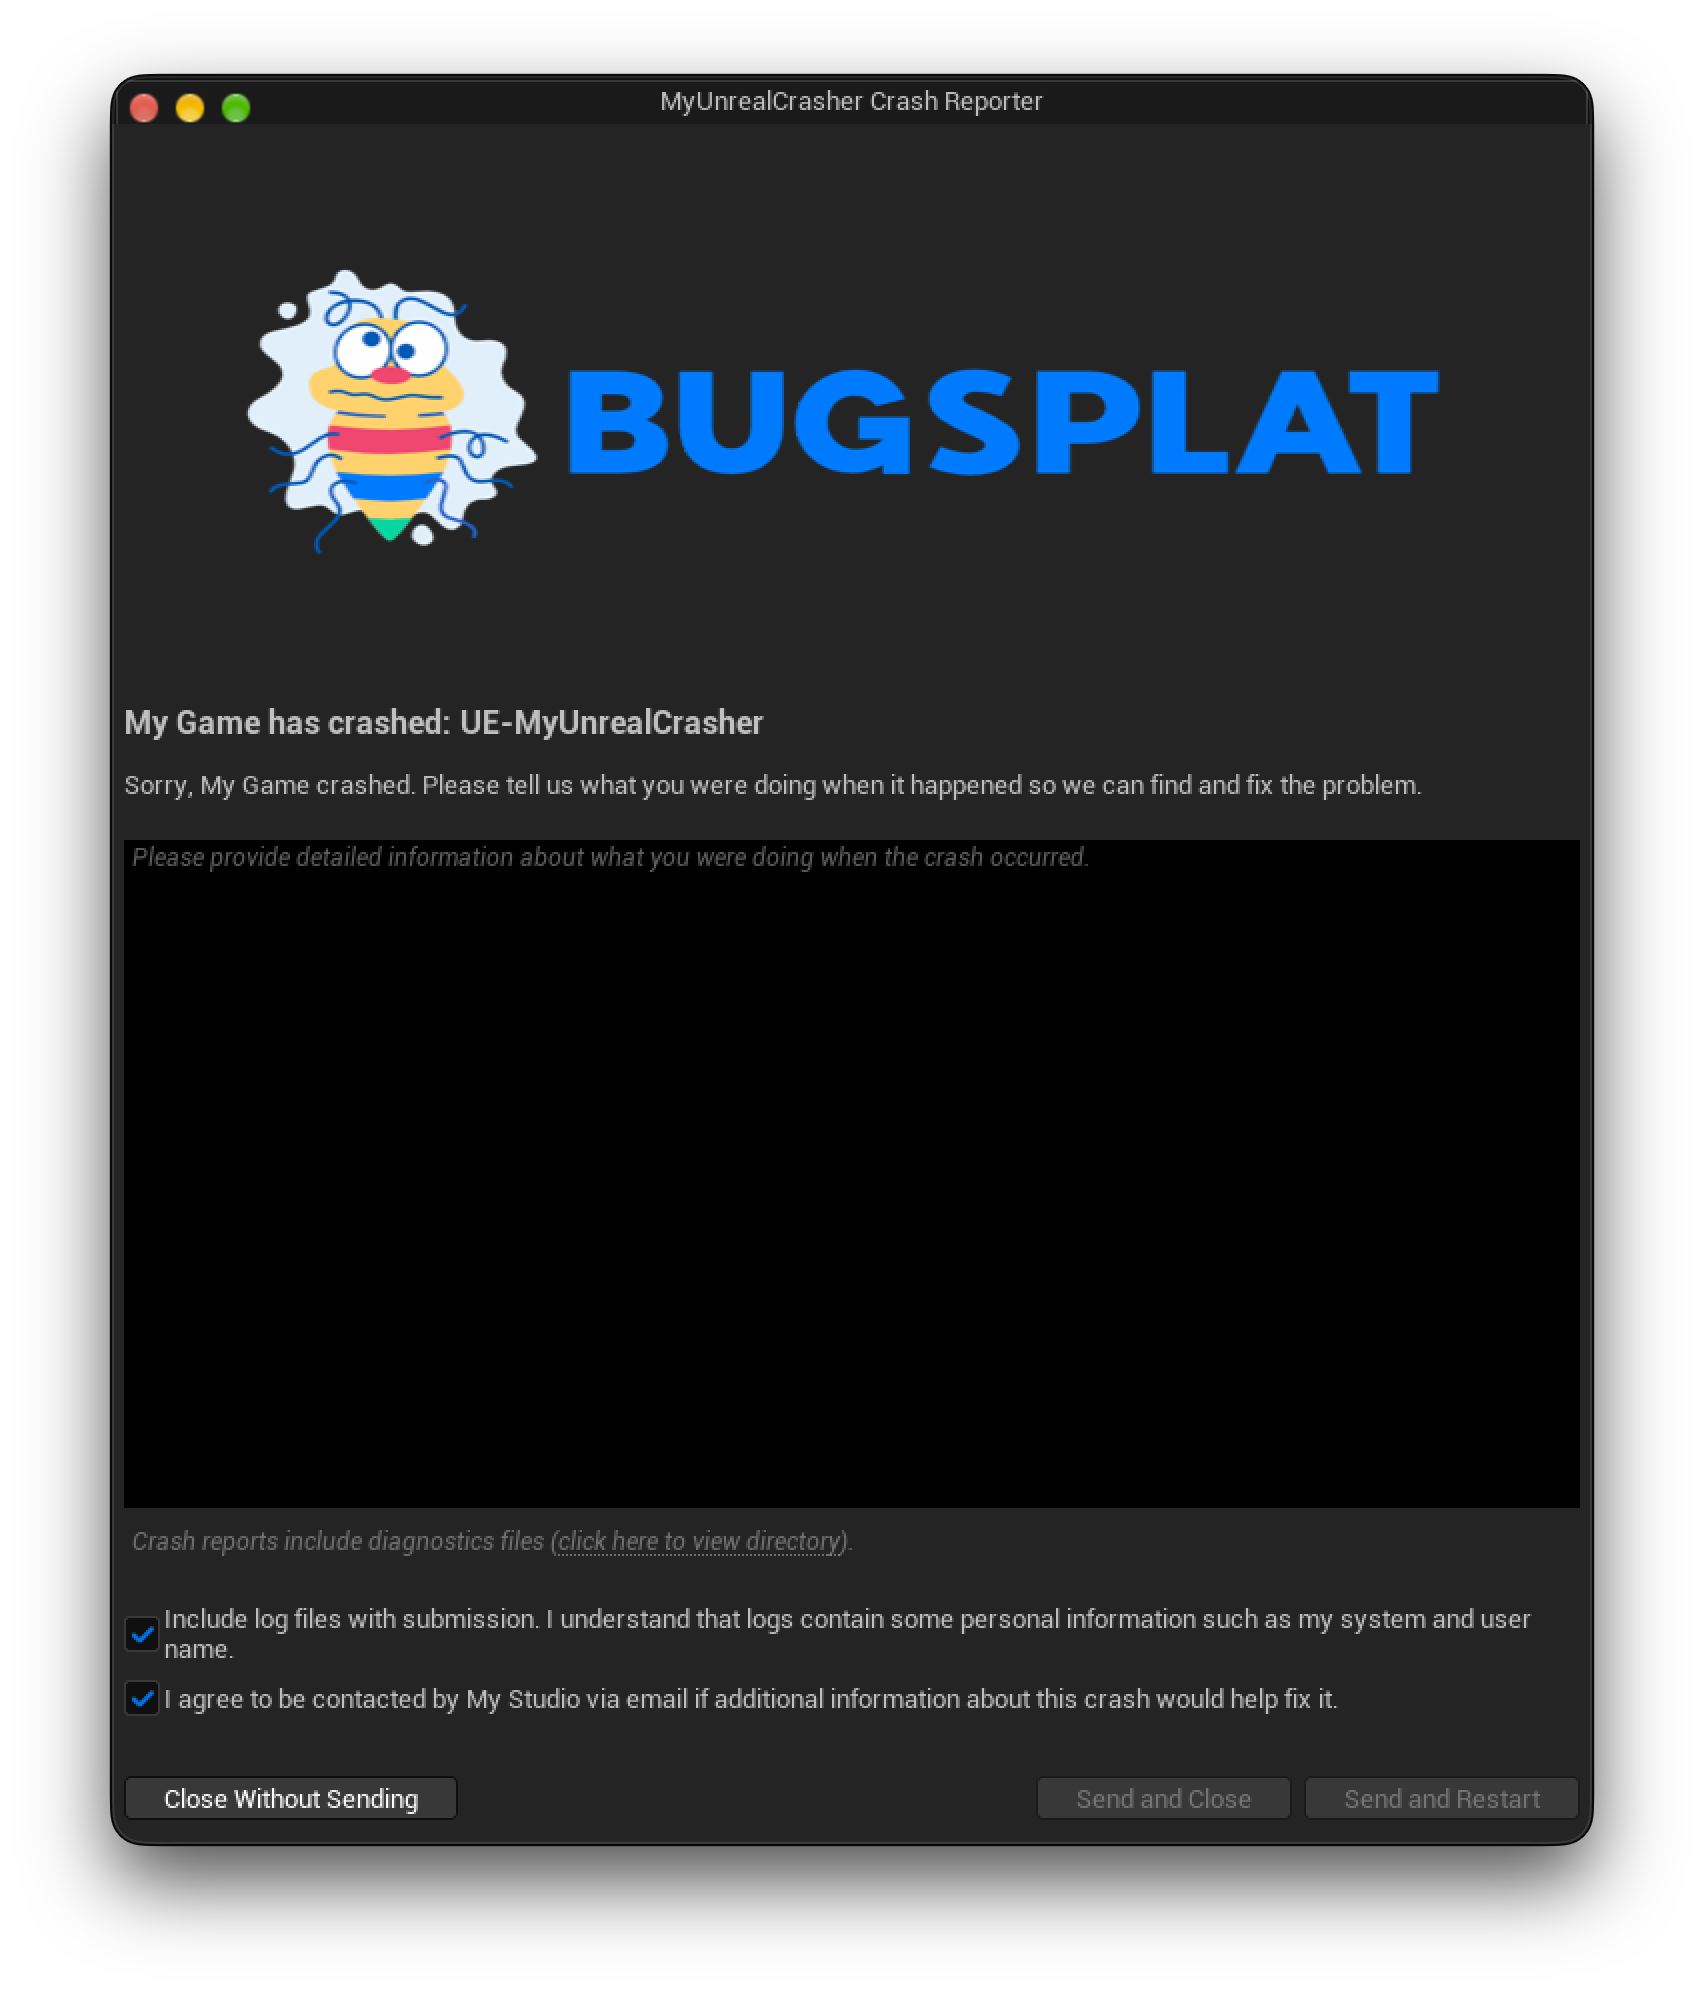
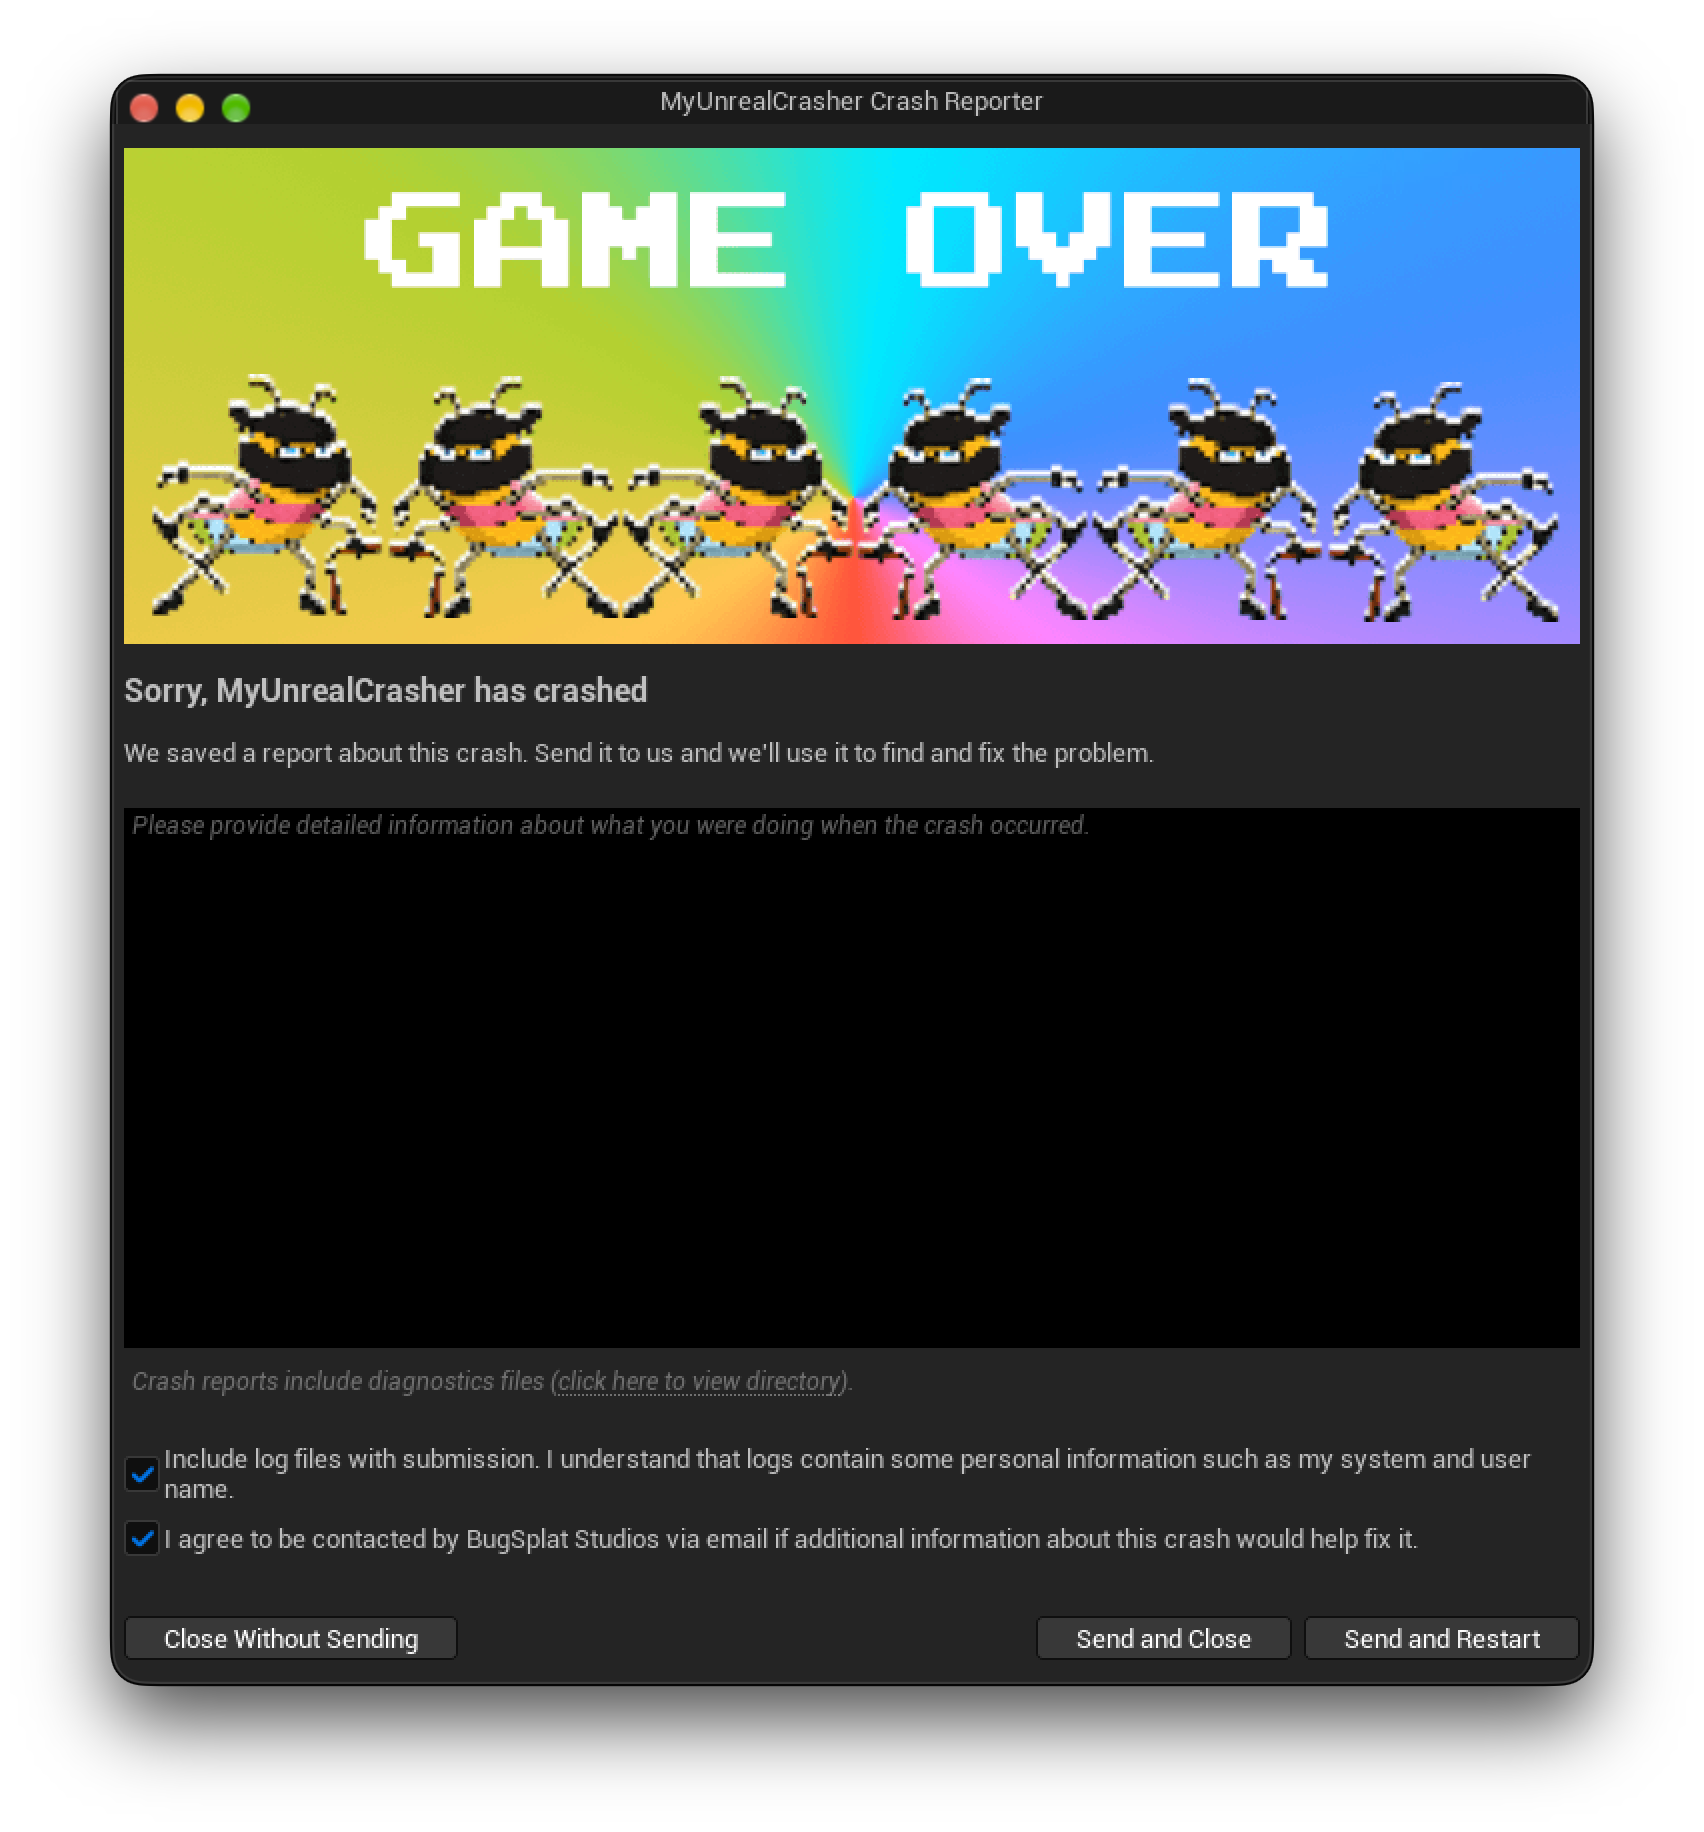
docs(unreal): new Crash Report Client screenshot and friendlier heading
- Screenshot now uses the pixel ninjas GAME OVER art from the web app's
  404 page as the banner, with the dialog sized to fit (brush 720x248,
  window 740x770)
- Heading section shows how to get "Sorry, MyUnrealCrasher has crashed":
  strip the UE- prefix, format it into CrashedAppUnreal, and delete the
  slot that repeats the name
- Banner guidance: brush size in points, image at 2x or more for high-DPI,
  nearest-neighbor scaling for pixel art
- Examples use BugSplat Studios and the message shown in the screenshot
- Note that Send buttons stay disabled until DataRouterUrl is set

All verified on the local 5.8.4 build.

diff --git a/introduction/getting-started/integrations/game-development/unreal-engine/customizing-the-crash-report-client.md b/introduction/getting-started/integrations/game-development/unreal-engine/customizing-the-crash-report-client.md
@@ -21,16 +21,16 @@ Add the following to your project's `Config/DefaultEngine.ini`, in the same file
 
 ```ini
 [CrashContextProperties]
-CrashReportClientRichText=INVTEXT("Sorry, My Game crashed. Please tell us what you were doing when it happened so we can find and fix the problem.")
+CrashReportClientRichText=INVTEXT("We saved a report about this crash. Send it to us and we'll use it to find and fix the problem.")
 
 [CrashReportClient]
-CompanyName=My Studio
+CompanyName=BugSplat Studios
 bHideLogFilesOption=false
 bHideAllowToBeContactedOption=false
 ```
 
 * `CrashReportClientRichText` replaces Epic's default message, including the link to Epic's bug submission form. The game reads this value when it starts, so it applies to packaged builds.
-* `CompanyName` sets the name in the contact checkbox: "I agree to be contacted by My Studio via email if additional information about this crash would help fix it." Without it, the checkbox doesn't name a company.
+* `CompanyName` sets the name in the contact checkbox: "I agree to be contacted by BugSplat Studios via email if additional information about this crash would help fix it." Without it, the checkbox doesn't name a company.
 * `bHideLogFilesOption=true` hides the "Include log files with submission" checkbox.
 * `bHideAllowToBeContactedOption=true` hides the contact checkbox.
 
@@ -42,7 +42,7 @@ The banner image, window size and call stack panel can only be changed in the Cr
 
 After completing this section, and the configuration changes above, your Crash Report Client dialog will look like this:
 
-<figure><img src="../../../../../.gitbook/assets/crash-report-client-customized.png" alt="Crash Report Client dialog with a BugSplat banner, the heading My Game has crashed, a custom message, a large description box, no call stack, and a checkbox that names My Studio"><figcaption></figcaption></figure>
+<figure><img src="../../../../../.gitbook/assets/crash-report-client-customized.png" alt="Crash Report Client dialog with a pixel-art GAME OVER banner, the heading Sorry, MyUnrealCrasher has crashed, a custom message, a large description box, no call stack, and a checkbox that names BugSplat Studios"><figcaption></figcaption></figure>
 
 ### Prerequisites
 
@@ -67,15 +67,15 @@ Both targets compile the same source files in `Engine/Source/Programs/CrashRepor
 
 #### Add a banner image
 
-The dialog is built with Unreal Engine's [Slate UI framework](https://dev.epicgames.com/documentation/en-us/unreal-engine/slate-user-interface-programming-framework-for-unreal-engine), and its styles are defined in `CrashReportClientStyle.cpp`. Crash Report Client loads style images from `Engine/Content/Slate`. Create a directory named `Engine/Content/Slate/CrashReportClient` and save your banner there as `Brand.png`. A banner about 600px wide and 264px high fits the default dialog width.
+The dialog is built with Unreal Engine's [Slate UI framework](https://dev.epicgames.com/documentation/en-us/unreal-engine/slate-user-interface-programming-framework-for-unreal-engine), and its styles are defined in `CrashReportClientStyle.cpp`. Crash Report Client loads style images from `Engine/Content/Slate`. Create a directory named `Engine/Content/Slate/CrashReportClient` and save your banner there as `Brand.png`. The dialog is 740 points wide, so a banner 720 points wide fits with a small margin.
 
 Next, register the image as a brush in the style set. In `CrashReportClientStyle.cpp`, inside `FCrashReportClientStyle::Create`, add the following line just before `return StyleRef;` ([line 130](https://github.com/EpicGames/UnrealEngine/blob/5.8.4-release/Engine/Source/Programs/CrashReportClient/Private/CrashReportClientStyle.cpp#L130) in 5.8.4):
 
 ```cpp
-Style.Set("Brand", new IMAGE_BRUSH("CrashReportClient/Brand", FVector2D(600, 264)));
+Style.Set("Brand", new IMAGE_BRUSH("CrashReportClient/Brand", FVector2D(720, 248)));
 ```
 
-This line defines an image brush for `Engine/Content/Slate/CrashReportClient/Brand.png` with a size of 600px by 264px, stored in the style set under the key `Brand`. In our experience, a brush declared directly in the dialog code doesn't load at runtime.
+This line defines an image brush for `Engine/Content/Slate/CrashReportClient/Brand.png`, drawn at 720 by 248 points and stored in the style set under the key `Brand`. The image file can be larger than the brush. Save it at twice the brush size or more (1440 by 496 pixels here) so that it stays sharp on high-DPI displays. For pixel art, scale it up with nearest-neighbor resampling so the edges stay crisp. In our experience, a brush declared directly in the dialog code doesn't load at runtime.
 
 Now add the image to the dialog. In `SCrashReportClient.cpp`, find `SCrashReportClient::ConstructDetailedDialog` and add the following slot just under the comment `// Stuff anchored to the top` ([line 157](https://github.com/EpicGames/UnrealEngine/blob/5.8.4-release/Engine/Source/Programs/CrashReportClient/Private/SCrashReportClient.cpp#L157) in 5.8.4):
 
@@ -99,6 +99,8 @@ On Windows, the editor looks for `CrashReportClientEditor.exe` (the Shipping bui
 
 To show the dialog, start the editor from Visual Studio and open any project. Our sample project [my-unreal-crasher](https://github.com/BugSplat-Git/my-unreal-crasher) works well. Click Play, press the backtick key (`` ` ``) to open the console, and enter `debug crash`. The editor crashes and Crash Report Client opens with your banner. To skip the clicking, start the editor with `-ExecCmds="debug crash"` and it crashes as soon as the project loads.
 
+If Send and Close and Send and Restart are grayed out, Crash Report Client has nowhere to send the report. Set `DataRouterUrl` as described in [Unreal Engine](../unreal-engine.md#configuring-crash-report-client).
+
 {% hint style="info" %}
 **macOS:** the editor only launches `CrashReportClientEditor.app`, which is the Shipping build, so build that configuration:
 
@@ -111,24 +113,30 @@ If the build fails with `The selected platform is no longer supported by libc++`
 
 #### Resize the window
 
-The banner takes up space that the text boxes used to have, so they're squeezed. To make the dialog taller, change the default window size in `CrashReportClientApp.cpp` ([line 55](https://github.com/EpicGames/UnrealEngine/blob/5.8.4-release/Engine/Source/Programs/CrashReportClient/Private/CrashReportClientApp.cpp#L55) in 5.8.4). The default is 740 by 560. Adding the banner's height gives roughly:
+The banner takes up space that the text boxes used to have, so they're squeezed. To make the dialog taller, change the default window size in `CrashReportClientApp.cpp` ([line 55](https://github.com/EpicGames/UnrealEngine/blob/5.8.4-release/Engine/Source/Programs/CrashReportClient/Private/CrashReportClientApp.cpp#L55) in 5.8.4). The default is 740 by 560. With the 248-point banner and the call stack removed (see [Hide the call stack](#hide-the-call-stack)), 770 points leaves a comfortable description box:
 
 ```cpp
 /** Default main window size */
-const FVector2D InitialWindowDimensions(740, 850);
+const FVector2D InitialWindowDimensions(740, 770);
 ```
 
 If your game attaches a screenshot to its crash reports, the dialog uses `InitialWindowDimensionsWithScreenshot` (740 by 1000) a few lines below. Increase that value as well.
 
 #### Change the remaining Epic text
 
-The configuration options above replace the main message and the contact checkbox. The heading above the message is set in code. In `SCrashReportClient.cpp`, `ConstructDetailedDialog` shows "An Unreal process has crashed: " followed by the game's name ([line 87](https://github.com/EpicGames/UnrealEngine/blob/5.8.4-release/Engine/Source/Programs/CrashReportClient/Private/SCrashReportClient.cpp#L87) in 5.8.4). Change the text of the `CrashedAppUnreal` string to your own wording:
+The configuration options above replace the main message and the contact checkbox. The heading above the message is set in code. By default it reads "An Unreal process has crashed: UE-MyUnrealCrasher". The name comes from the crash's `GameName` property, which Unreal Engine prefixes with `UE-`.
+
+To show a friendlier heading, such as "Sorry, MyUnrealCrasher has crashed", make two changes in `SCrashReportClient::ConstructDetailedDialog`. First, replace the `CrashedAppText` definition ([lines 85 to 87](https://github.com/EpicGames/UnrealEngine/blob/5.8.4-release/Engine/Source/Programs/CrashReportClient/Private/SCrashReportClient.cpp#L85-L87) in 5.8.4) with a version that removes the prefix and puts the name in the sentence:
 
 ```cpp
-LOCTEXT( "CrashedAppUnreal", "My Game has crashed: " );
+FString DisplayName = CrashedAppName;
+DisplayName.RemoveFromStart(TEXT("UE-"));
+const FText CrashedAppText = CrashedAppName.IsEmpty() ?
+	LOCTEXT( "CrashedAppNotFound", "An unknown process has crashed" ) :
+	FText::Format( LOCTEXT( "CrashedAppUnreal", "Sorry, {0} has crashed" ), FText::FromString( DisplayName ) );
 ```
 
-The name after the heading comes from the crash's `GameName` property, which Unreal Engine prefixes with `UE-`, for example `UE-MyUnrealCrasher`. To leave the name out, delete the second `+SHorizontalBox::Slot()` in the heading, the one that displays `CrashedAppName`.
+Second, the heading shows the name a second time in its own text block. Delete the second `+SHorizontalBox::Slot()` in the heading, the one that displays `FText::FromString(CrashedAppName)` ([lines 171 to 177](https://github.com/EpicGames/UnrealEngine/blob/5.8.4-release/Engine/Source/Programs/CrashReportClient/Private/SCrashReportClient.cpp#L171-L177) in 5.8.4).
 
 If you can't change your project's configuration, you can also edit the default message in code. The default message is the `CrashDetailed` string in `SCrashReportClient::Construct` ([line 56](https://github.com/EpicGames/UnrealEngine/blob/5.8.4-release/Engine/Source/Programs/CrashReportClient/Private/SCrashReportClient.cpp#L56) in 5.8.4). `CrashReportClientRichText` overrides this string when it's set.
 
@@ -215,7 +223,7 @@ The following steps create an installed build on Windows:
    Engine\Build\BatchFiles\RunUAT.bat BuildGraph -script=Engine/Build/InstalledEngineBuild.xml -target="Make Installed Build Win64" -set:HostPlatformOnly=true
    ```
 
-   `HostPlatformOnly=true` builds for Windows only, so you don't need the SDKs for Android, Linux or other platforms. Add the `-set:` option for each extra platform your game targets, for example `-set:WithAndroid=true`. To make BugSplat the default destination for crash reports from games built with this engine, also add `-set:CrashReporterURL=https://{database}.bugsplat.com/post/ue4/{appName}/{appVersion}` and `-set:CrashReporterCompanyName="My Studio"`, replacing the values in braces with your own. A `DataRouterUrl` or `CompanyName` in a project's `DefaultEngine.ini` still overrides these defaults.
+   `HostPlatformOnly=true` builds for Windows only, so you don't need the SDKs for Android, Linux or other platforms. Add the `-set:` option for each extra platform your game targets, for example `-set:WithAndroid=true`. To make BugSplat the default destination for crash reports from games built with this engine, also add `-set:CrashReporterURL=https://{database}.bugsplat.com/post/ue4/{appName}/{appVersion}` and `-set:CrashReporterCompanyName="BugSplat Studios"`, replacing the values in braces with your own. A `DataRouterUrl` or `CompanyName` in a project's `DefaultEngine.ini` still overrides these defaults.
 8. The installed engine is saved to `LocalBuilds\Engine\Windows`. Copy that folder to each machine that needs it, and run `Engine\Binaries\Win64\UnrealEditor.exe` from inside it to create games with your customized engine.
 9. To open existing projects with your customized engine, edit the `.uproject` file and change the `EngineAssociation` field. After the editor has been launched once on a machine, you can find the value by opening `regedit` and navigating to `HKEY_CURRENT_USER\Software\Epic Games\Unreal Engine\Builds`. Use the name of the entry whose value is the path to your installed engine folder.
 
